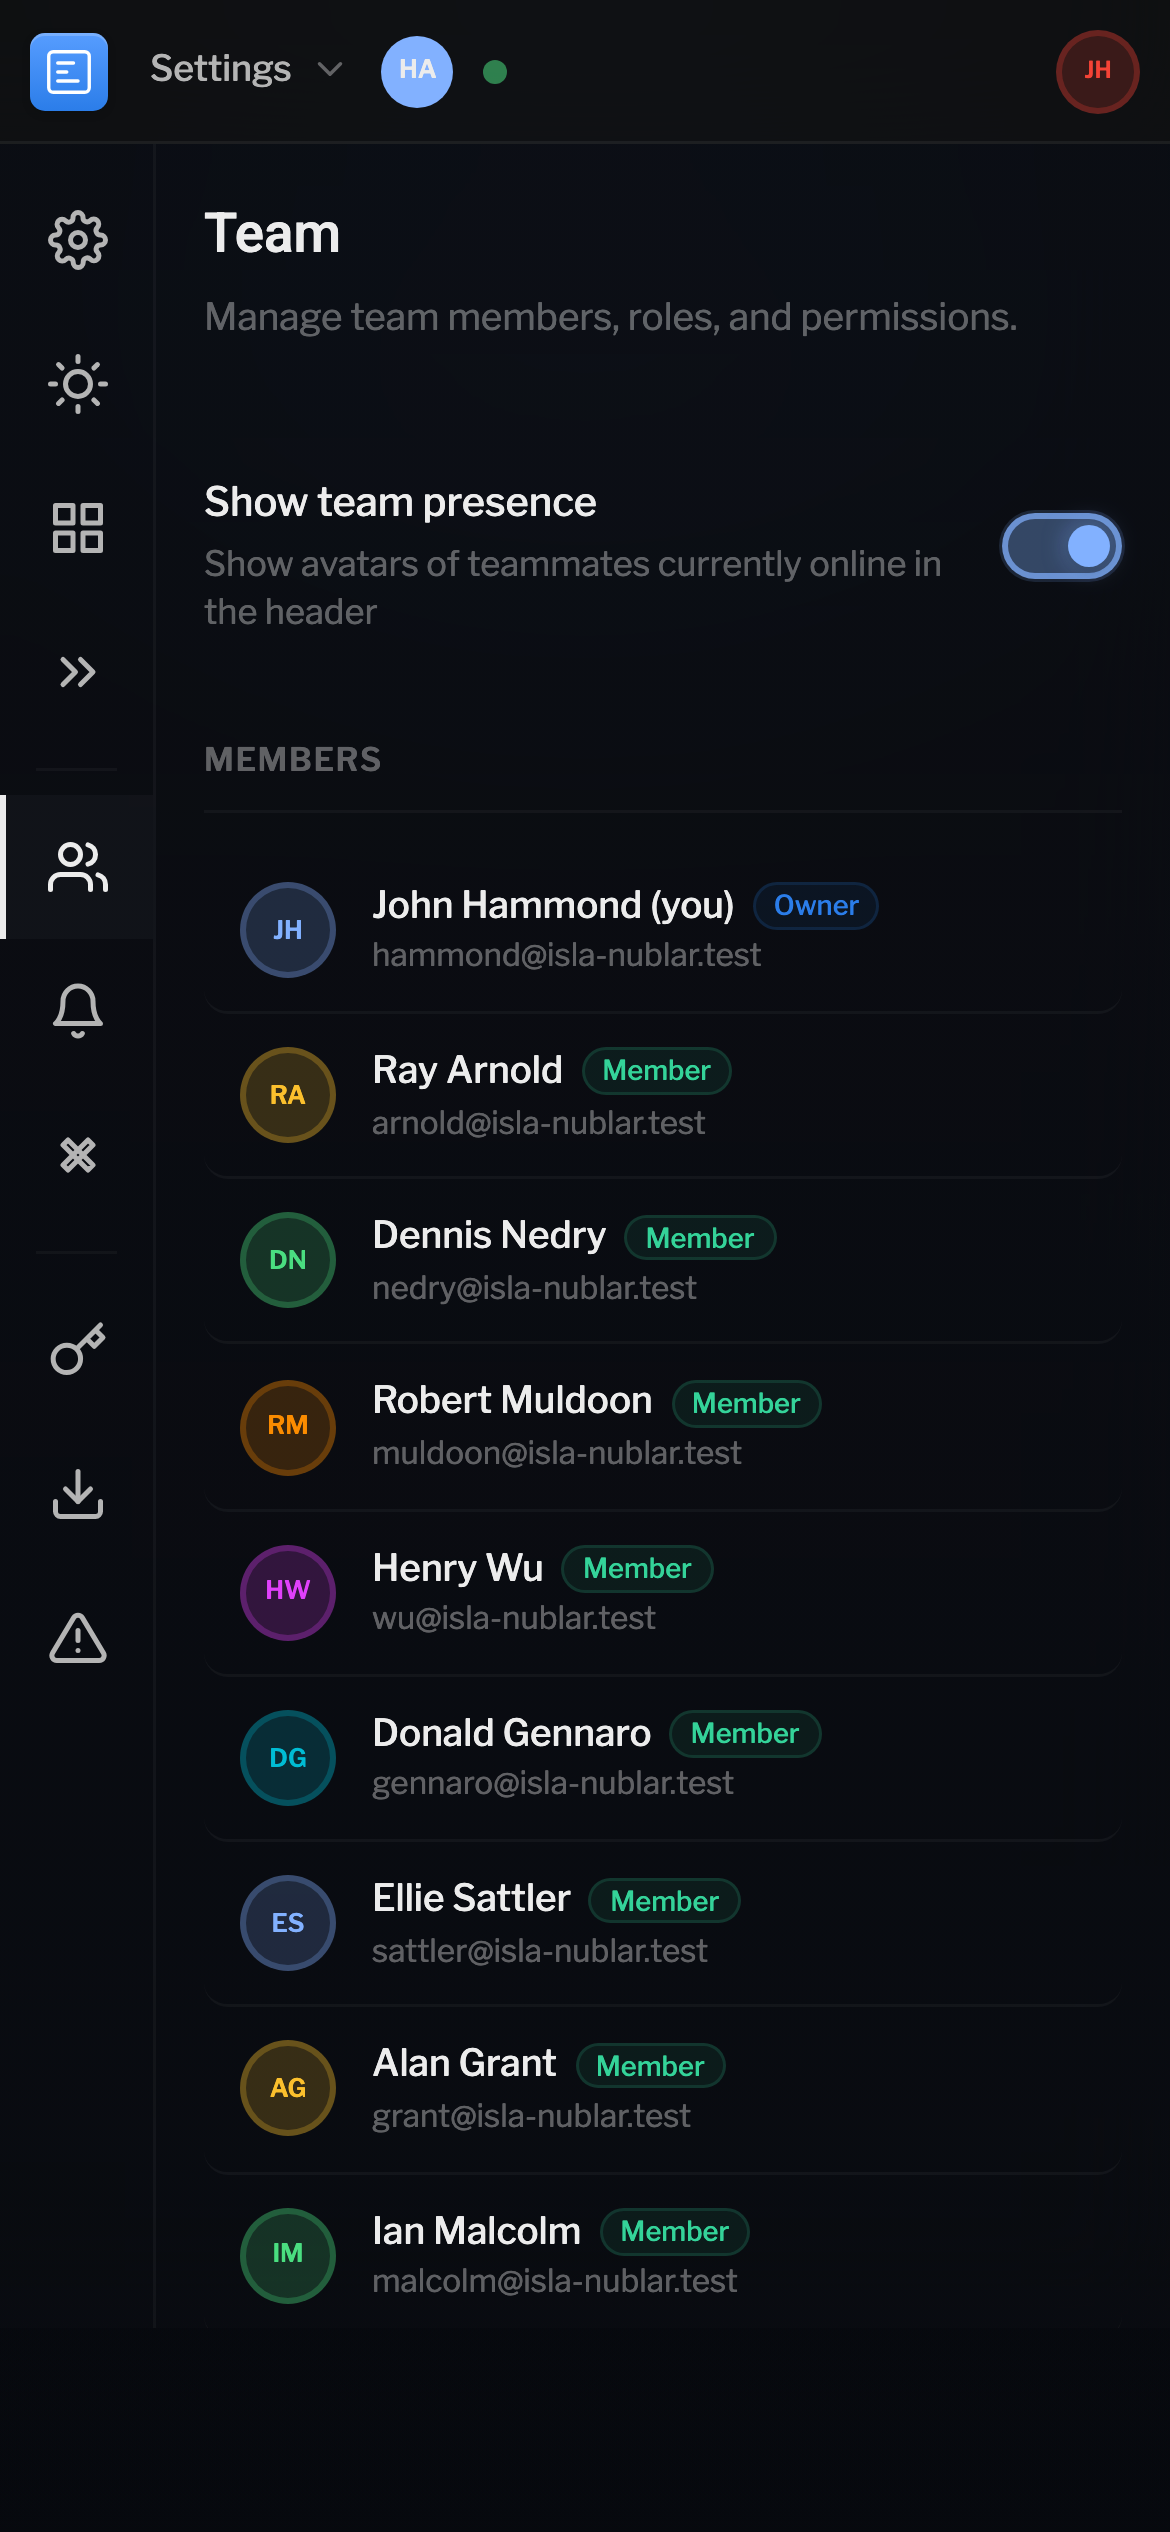
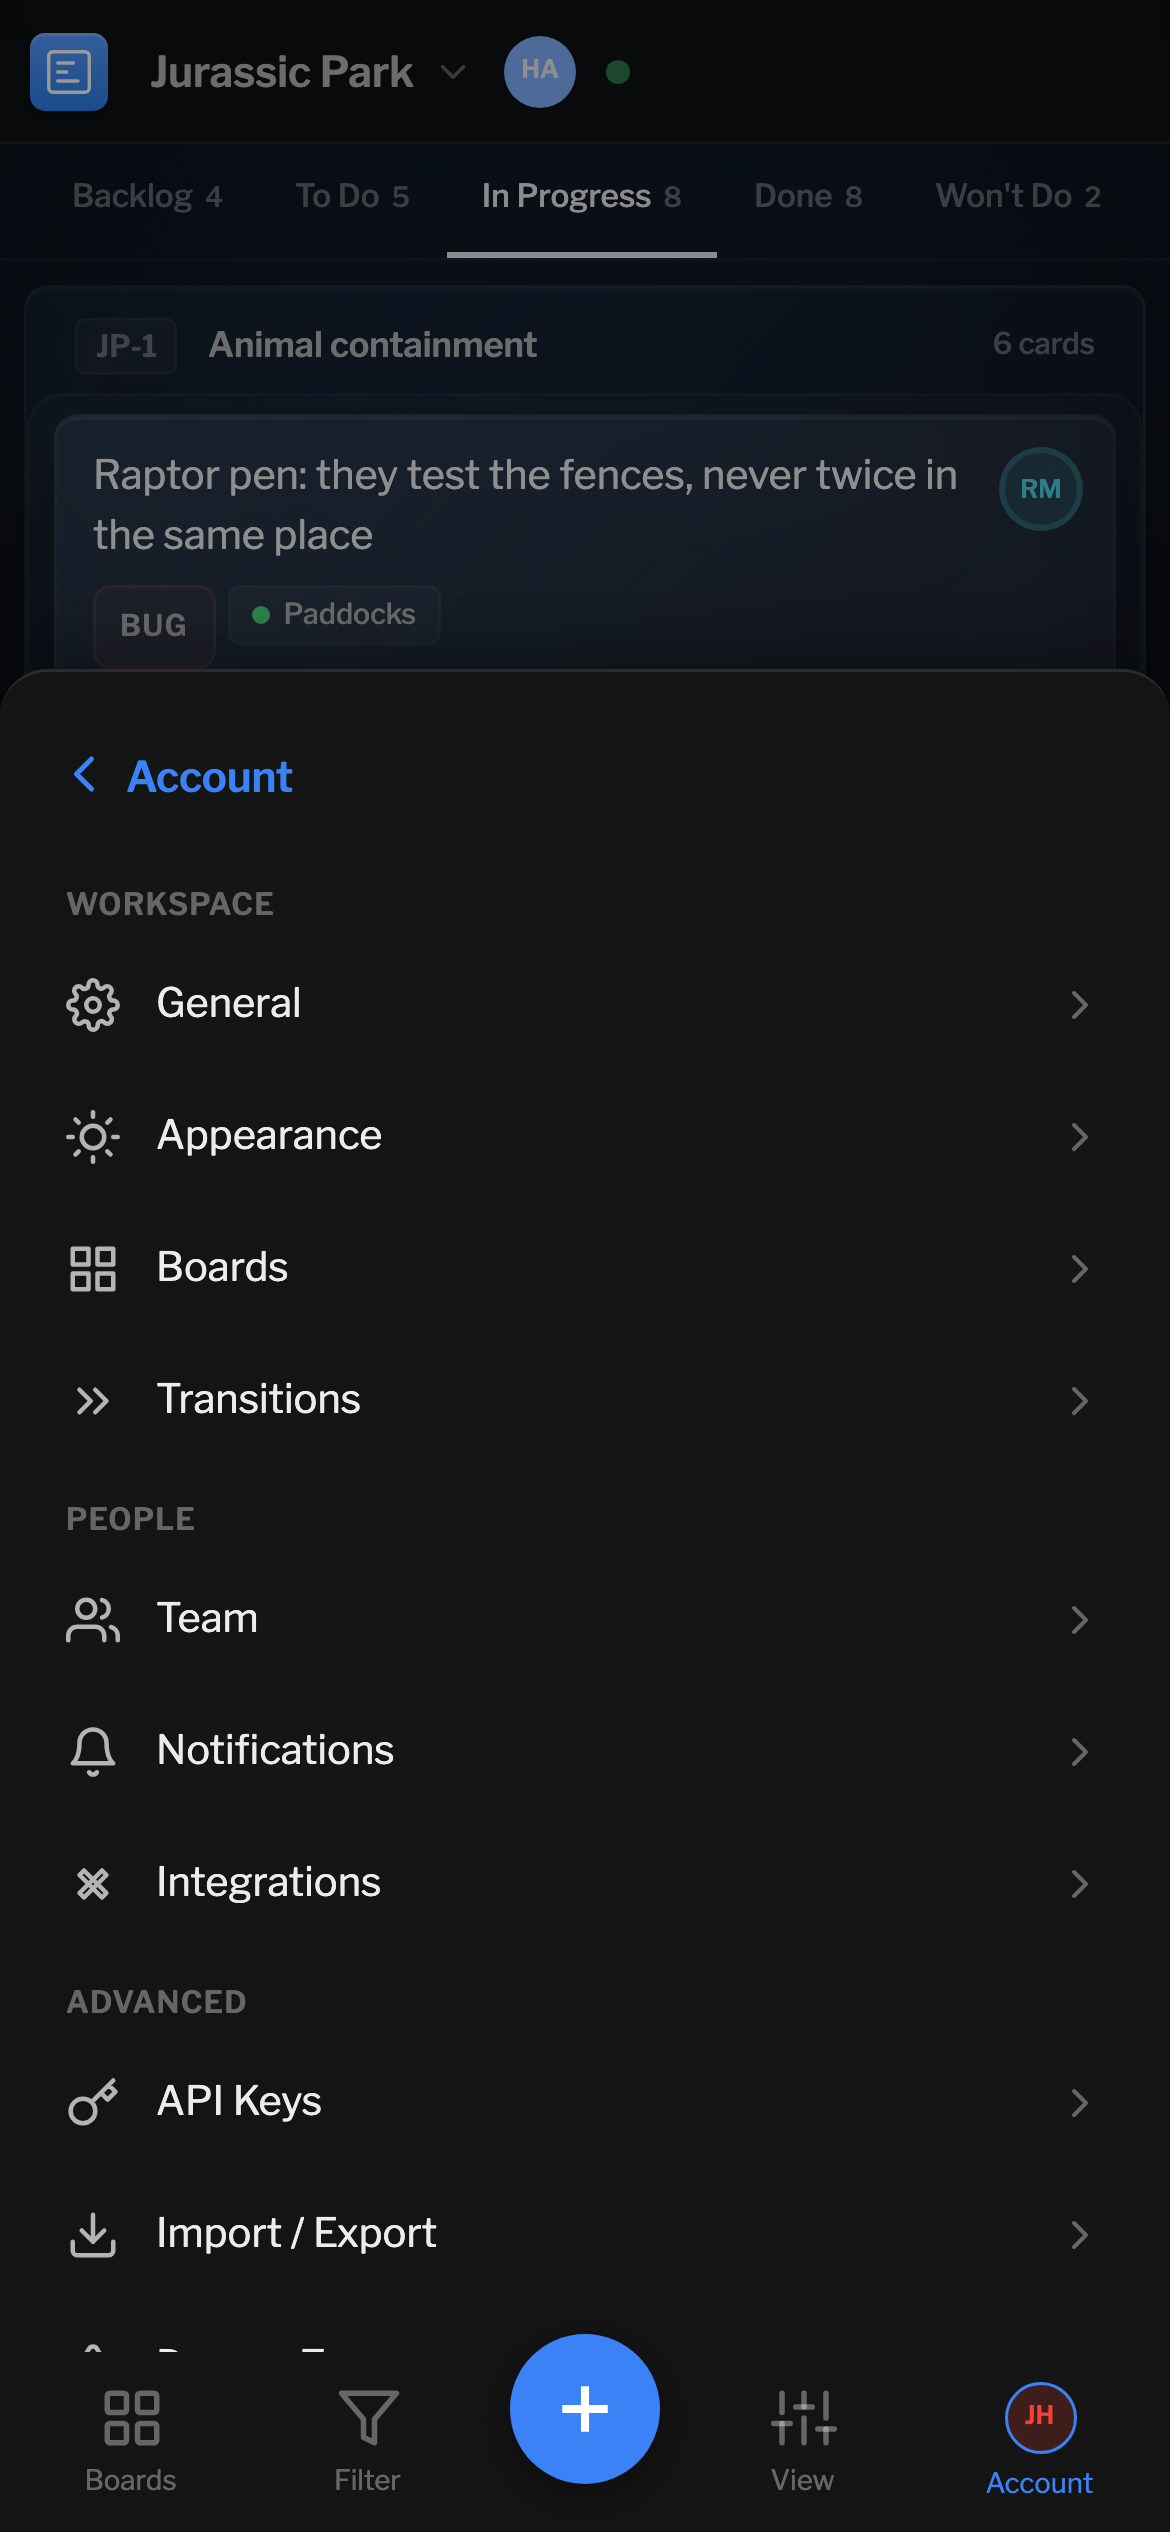
Retake the phone screenshots; the third shows settings in the sheet

diff --git a/README.md b/README.md
@@ -38,7 +38,7 @@
 <p align="center">
   <img src="docs/img/sc-phone-1.png" alt="The board on a phone, with column tabs and the bottom bar" width="24%" />
   <img src="docs/img/sc-phone-2.png" alt="The Filter sheet on a phone" width="24%" />
-  <img src="docs/img/sc-phone-3.png" alt="Settings > Team on a phone" width="24%" />
+  <img src="docs/img/sc-phone-3.png" alt="Settings in the sheet on a phone" width="24%" />
 </p>
 
 ---
